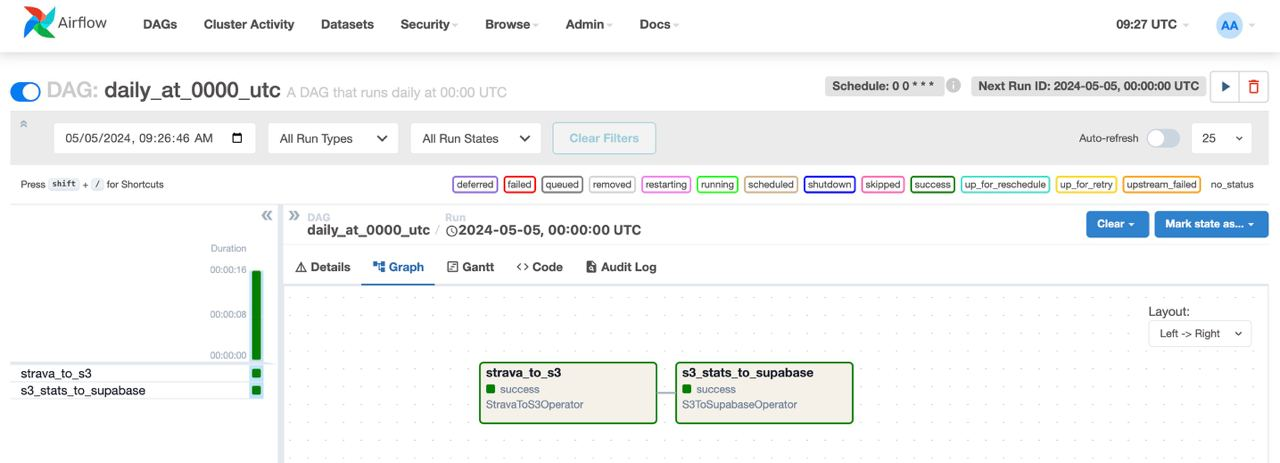
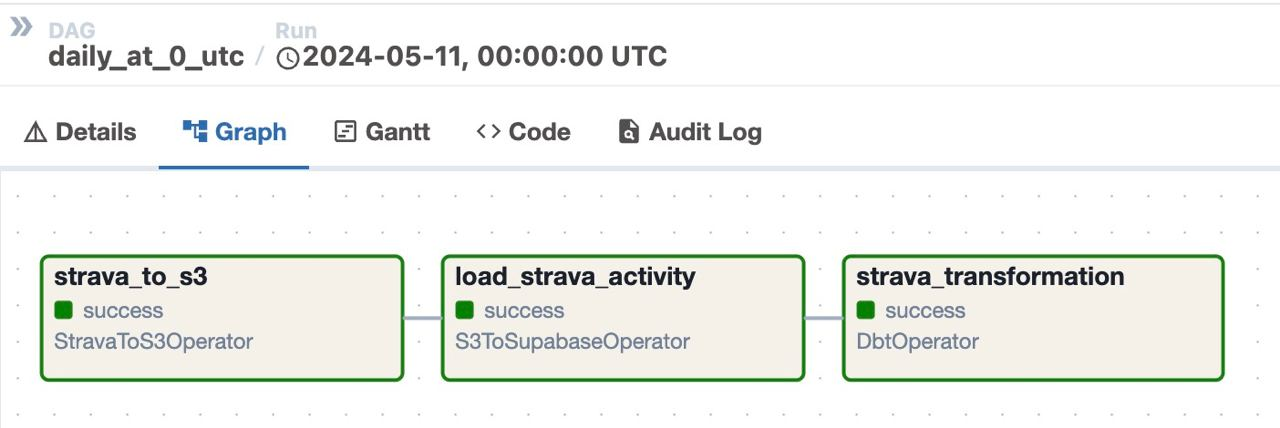
SNG-19 feat: Orchestrate compute through DbtOperator (#46)

diff --git a/pipeline/pipeline/orchestration/dags/utils/DbtOperator.py b/pipeline/pipeline/orchestration/dags/utils/DbtOperator.py
@@ -1,0 +1,32 @@
+from airflow.providers.amazon.aws.operators.ecs import EcsRunTaskOperator
+from .settings import (
+    ACE_TASK_DEFINITION,
+    ECS_CLUSTER,
+    ACE_CONTAINER_NAME,
+    NETWORK_CONFIGURATION,
+)
+
+
+class DbtOperator(EcsRunTaskOperator):
+    """
+    Custom DbtOperator that inherits from EcsRunTaskOperator
+    """
+
+    def __init__(self, cmd, select=None, **kwargs):
+        super().__init__(
+            task_definition=ACE_TASK_DEFINITION,
+            cluster=ECS_CLUSTER,
+            overrides={
+                "containerOverrides": [
+                    {
+                        "name": ACE_CONTAINER_NAME,
+                        "command": [f"dbt {cmd} --select {select}"],
+                    },
+                ],
+            },
+            network_configuration=NETWORK_CONFIGURATION,
+            **kwargs,
+        )
+
+    def execute(self, context):
+        super().execute(context)

diff --git a/pipeline/pipeline/orchestration/dags/daily_0_utc.py b/pipeline/pipeline/orchestration/dags/daily_0_utc.py
@@ -2,6 +2,7 @@ from airflow import DAG
 from utils.settings import OWNER, EMAIL
 from utils.StravaToS3Operator import StravaToS3Operator
 from utils.S3ToSupabaseOperator import S3ToSupabaseOperator
+from utils.DbtOperator import DbtOperator
 from datetime import datetime, timedelta
 
 
@@ -42,4 +43,8 @@ s3_stats_to_supabase = S3ToSupabaseOperator(
     s3_key=S3_KEY,
 )
 
-strava_to_s3 >> s3_stats_to_supabase
+dbt = DbtOperator(
+    task_id="strava_transformation", dag=dag, cmd="run", select="tag:strava"
+)
+
+strava_to_s3 >> s3_stats_to_supabase >> dbt

diff --git a/pipeline/pipeline/orchestration/dags/utils/settings.py b/pipeline/pipeline/orchestration/dags/utils/settings.py
@@ -10,6 +10,8 @@ GOMU_TASK_DEFINITION = "gomu-task-definition"
 GOMU_CONTAINER_NAME = "gomu-gomu"
 SABO_TASK_DEFINITION = "sabo-task-definition"
 SABO_CONTAINER_NAME = "sabo-sabo"
+ACE_TASK_DEFINITION = "ace-task-definition"
+ACE_CONTAINER_NAME = "ace-ace"
 ECS_CLUSTER = "gomu-ecs-cluster"
 NETWORK_CONFIGURATION = {
     "awsvpcConfiguration": {

diff --git a/README.md b/README.md
@@ -62,7 +62,8 @@ A monorepo approach to dbt Project management is taken because there will be dep
 ![dag](https://github.com/haojunsng/simple_pipeline/blob/main/pipeline/assets/dag.png)
 - Custom [StravaToS3Operator](https://github.com/haojunsng/strava_pipeline/blob/main/pipeline/pipeline/orchestration/dags/utils/StravaToS3Operator.py) inherits EcsRunTaskOperator and is created to call the STRAVA API for extraction.
 - Similarly, custom [S3ToSupabaseOperator](https://github.com/haojunsng/strava_pipeline/blob/main/pipeline/pipeline/orchestration/dags/utils/S3ToSupabaseOperator.py) also inherits EcsRunTaskOperator and helps to load data from my S3 bucket to Supabase Postgres database.
-- Both logic (STRAVA extraction & Loading to Supabase) are managed in `extract/` and `load/` respectively
+- Lastly, [DbtOperator](https://github.com/haojunsng/strava_pipeline/blob/main/pipeline/pipeline/orchestration/dags/utils/DbtOperator.py)
+- All 3 logic (STRAVA extraction, Loading to Supabase & dbt Transformation) are managed in `extract/`, `load/` and `transformation/` respectively.
 
 #### Deployment of DAGs to Airflow:
 ![s3](https://github.com/haojunsng/simple_pipeline/blob/main/pipeline/assets/s3.png)
